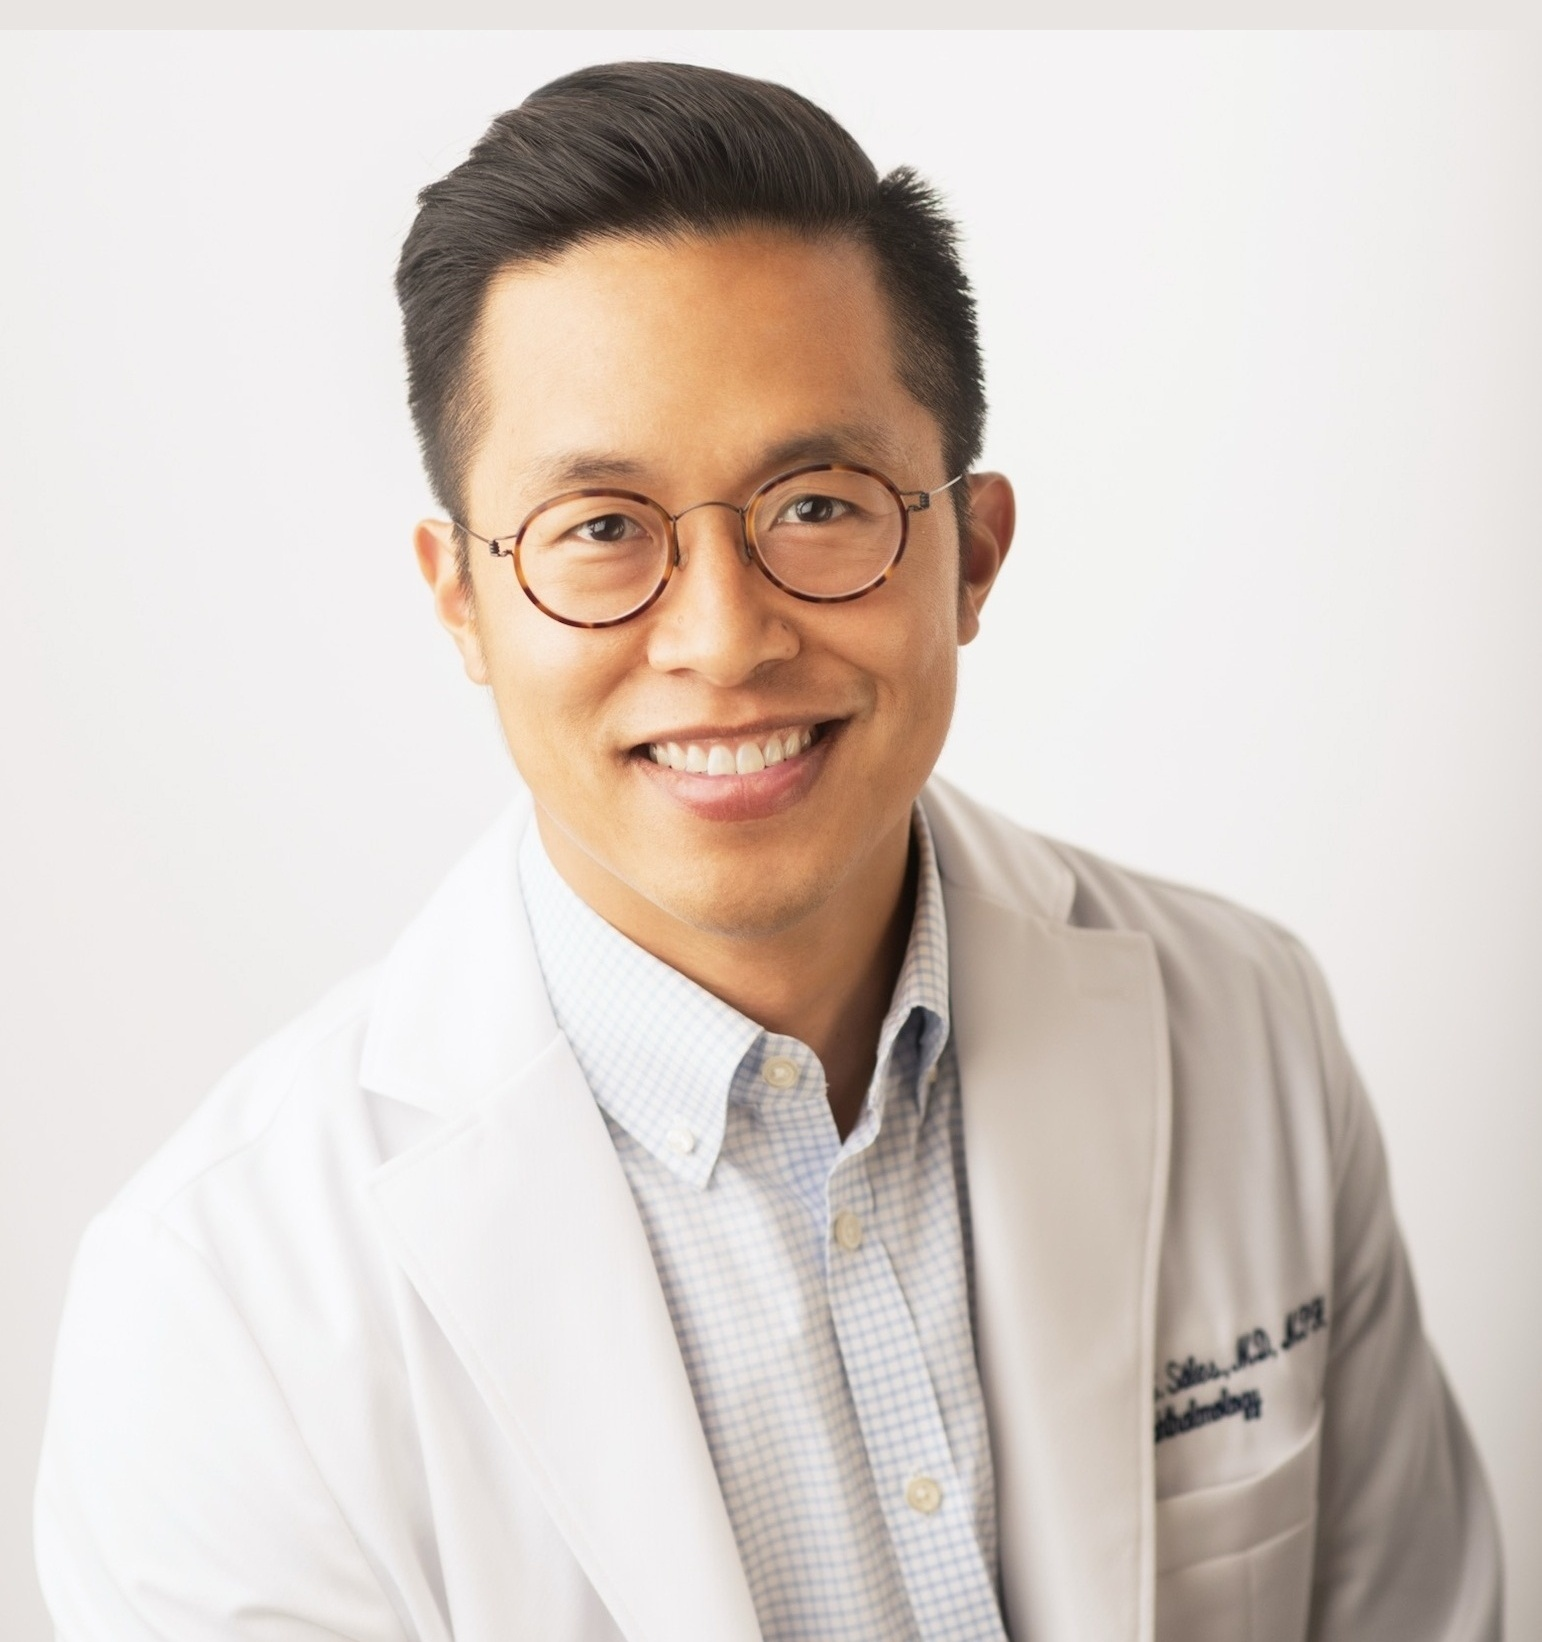
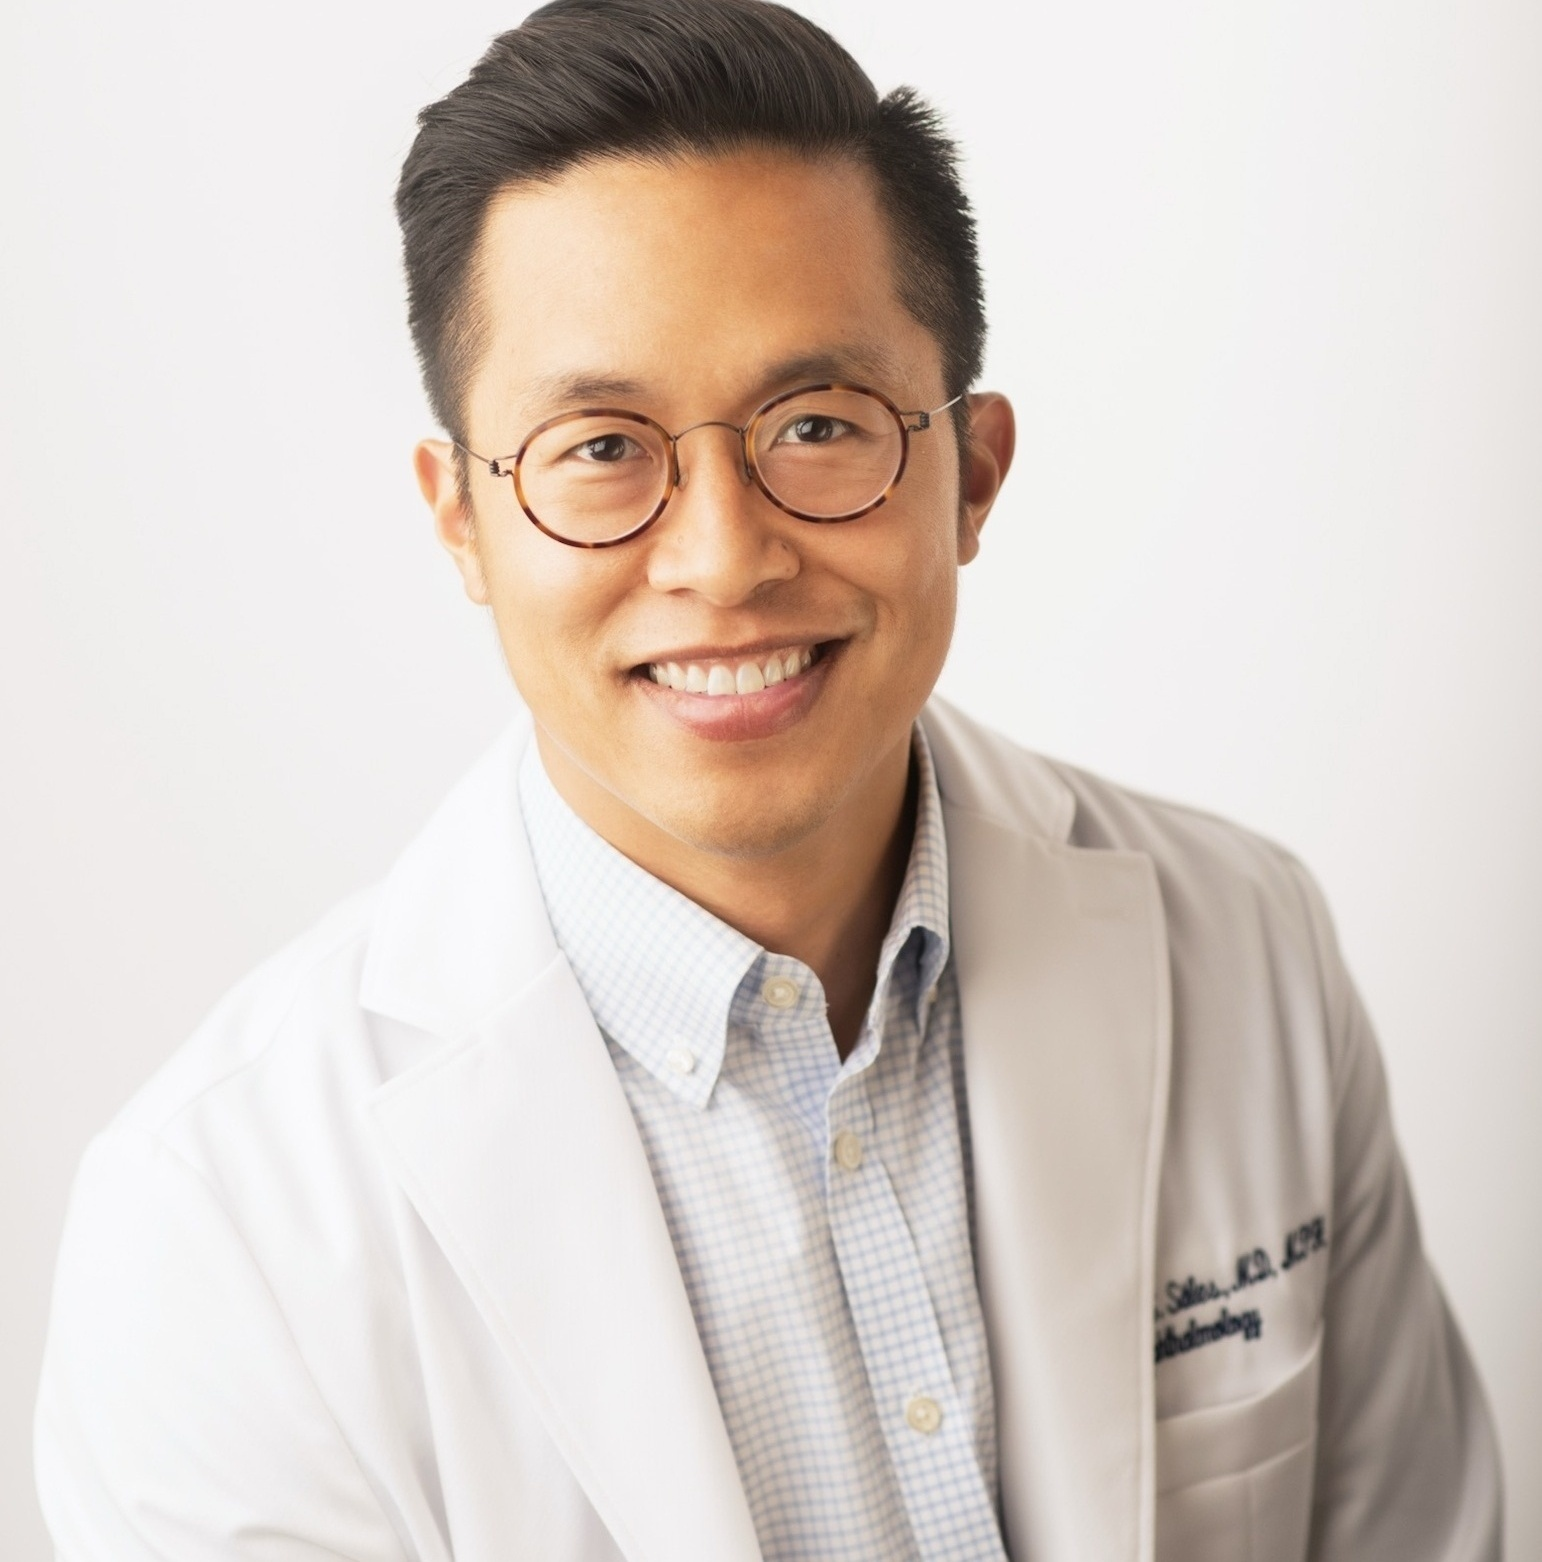
Remove gray bar from hero image
Cropped 80px of gray padding from top of the source image and
adjusted object-position to 0% to eliminate the gray strip visible
above Dr. Sales' head on production.

diff --git a/src/components/home/HeroSection.tsx b/src/components/home/HeroSection.tsx
@@ -158,7 +158,7 @@ export default function HeroSection() {
                 src="/images/dr-sales-hero-v2.jpg"
                 alt="Dr. Christopher Sales"
                 fill
-                className="object-cover object-[50%_5%]"
+                className="object-cover object-[50%_0%]"
                 priority
                 sizes="(max-width: 1024px) 100vw, 40vw"
               />
